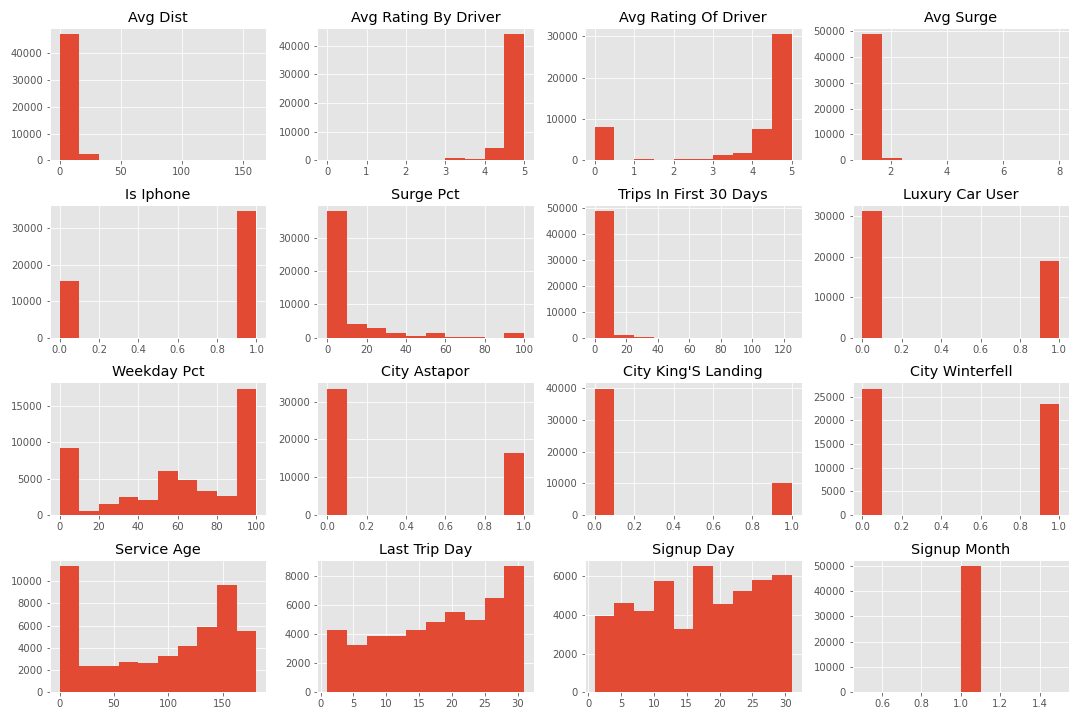
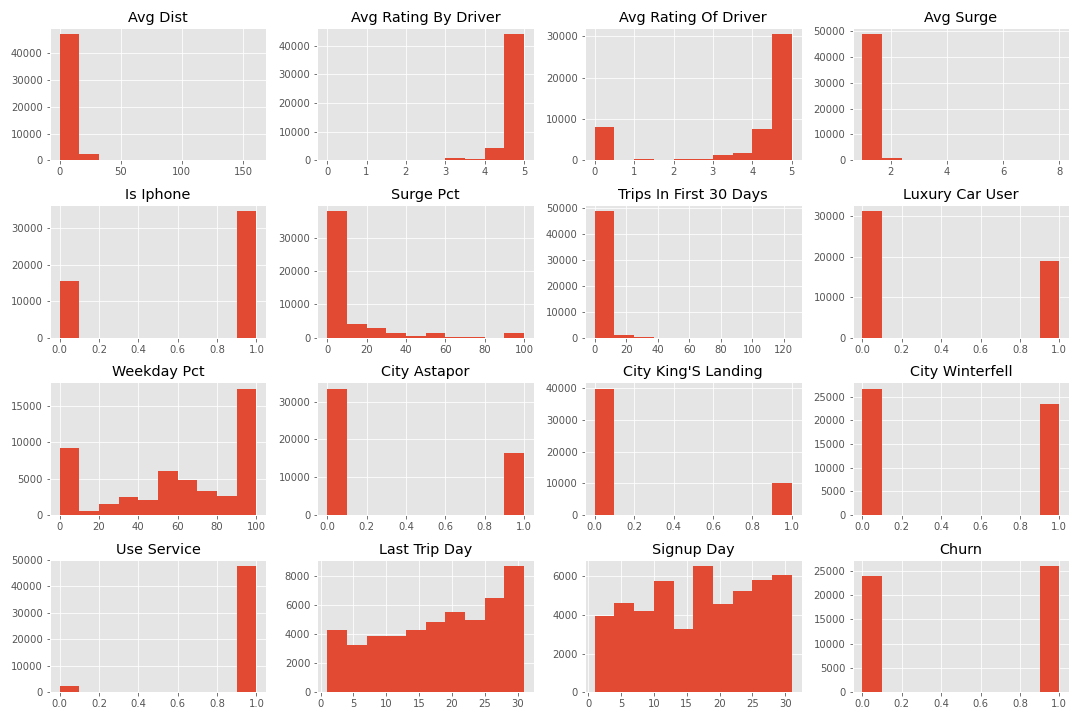
read me

diff --git a/src/models.py b/src/models.py
@@ -26,7 +26,7 @@ def get_model_errors(model, X, y):
     return accuracy, precision, recall
 
 
-def Gradient_Boosting_Regressor(X, y, learning_rate, n_estimators):
+def Gradient_Boosting_Classifier(X, y, learning_rate, n_estimators):
     # loss could be lad, huber, or quantile. default is ls
     model = GradientBoostingClassifier(learning_rate=learning_rate,   
                                   n_estimators=n_estimators,
@@ -34,8 +34,8 @@ def Gradient_Boosting_Regressor(X, y, learning_rate, n_estimators):
     model.fit(X, y) 
     return model
 
-grad_model = Gradient_Boosting_Regressor(X_train, y_train, 0.1, 100)
-accuracy, precision, recall = get_model_errors(grad_model, X_train, y_train)
+# grad_model = Gradient_Boosting_Classifier(X_train, y_train, 0.1, 100)
+# accuracy, precision, recall = get_model_errors(grad_model, X_train, y_train)
 
 
 # returns R^2, MSE

diff --git a/README.md b/README.md
@@ -51,11 +51,29 @@
 |last_trip_month       |Month of last trip date| 1 - 12|
 |signup_day            |Day of signup date | 1 - 31|
 |signup_month          |Month of signup date| 1 - 12|
+|use_service          |last trip data minus signup date  greater than 1| True or False|
 |**churn**| *target* :: Last trip date less greater than 30 days. |True or False|
 
 <img src = "img/data_hist.png" hight= "100"></img>
 
 </details>
+
+---
+
+<details>
+
+<summary>Models</summary>
+
+    The accuracy score is used to evaluate the following classification models. It is defined as the fraction of predictions our model got right.
+
+> **Random Forest Classifier**
+
+> **Gradient Boosting Classifier**
+
+</details>
+
+---
+### Conclusion
 
 ---
 ---
